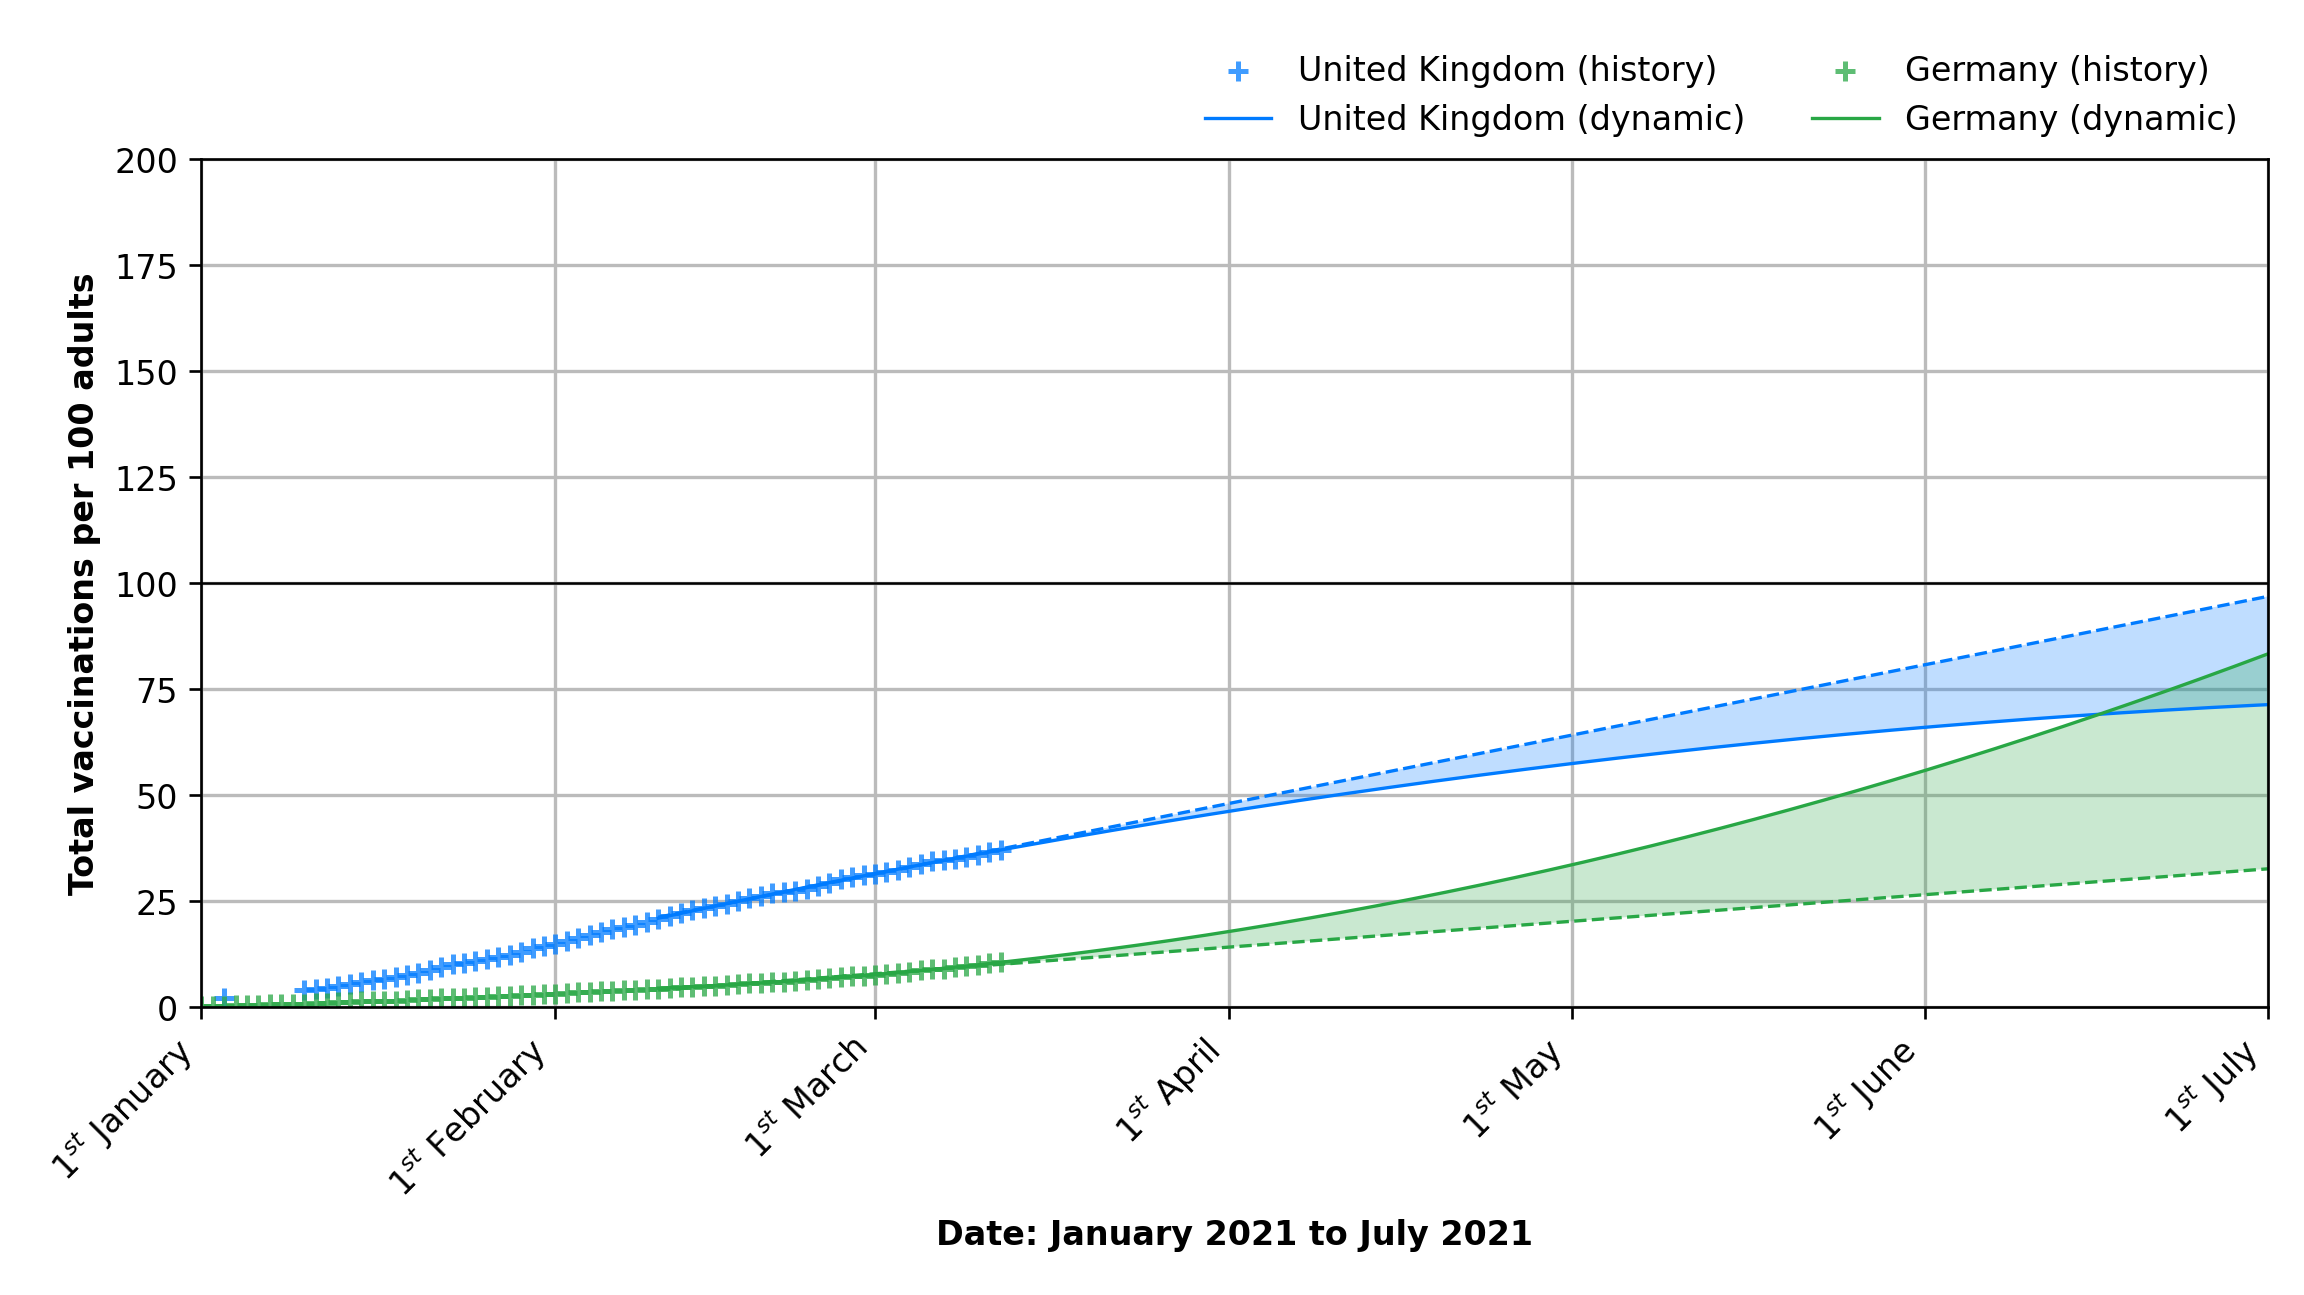
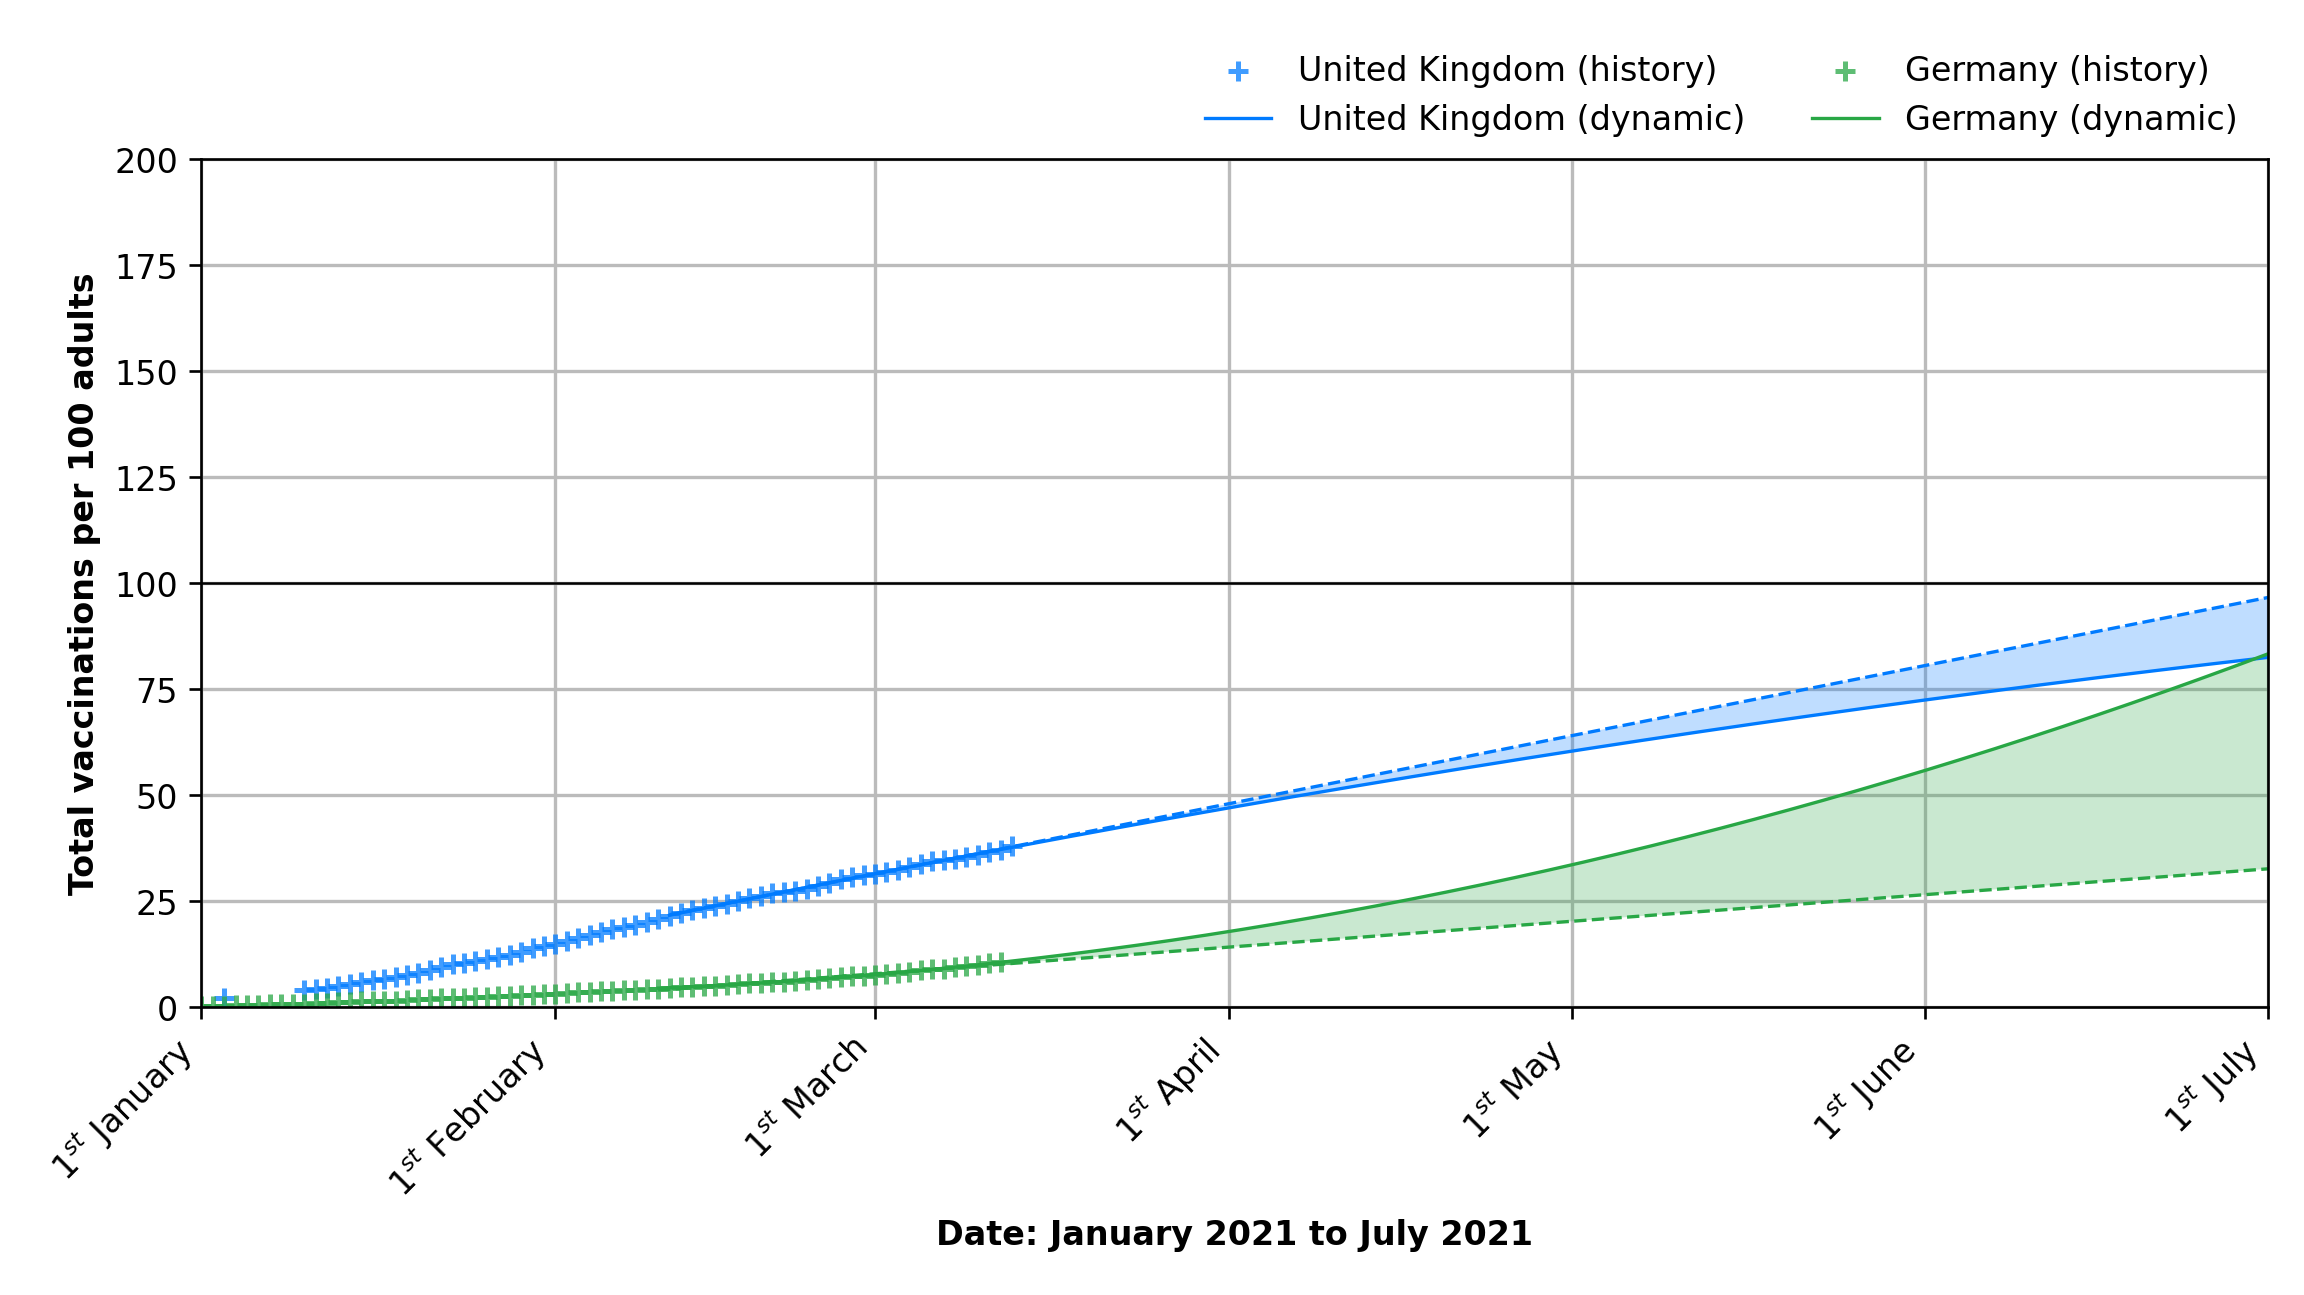
Deploying to gh-pages from @ lambdapioneer/vactrend@1b8b436be16664886d7738f8712cdc14d83be6f4 🚀

Changed region(s): [[0.5625, 0.4633, 1.0, 0.6178], [0.4688, 0.6178, 0.5625, 0.6486]]

diff --git a/index.html b/index.html
@@ -37,13 +37,13 @@
                 <div class="card">
                     <div class="card-header">🇬🇧 United Kingdom</div>
                     <div class="card-body">
-                        <h3 class="font-weight-bold" style="color: #007bff">37.15 <small>(+0.68/d)</small></h3>
+                        <h3 class="font-weight-bold" style="color: #007bff">37.98 <small>(+0.83/d)</small></h3>
                         <p class="mt-n2">Vaccinations per 100 adults</p>
-                        <h3 class=" font-weight-bold">07 July 2021</h3>
+                        <h3 class=" font-weight-bold">08 July 2021</h3>
                         <p class="mt-n2">Earliest day: 100 vacc. per 100 adults</p>
-                        <h3 class=" font-weight-bold">10 January 2022</h3>
+                        <h3 class=" font-weight-bold">11 January 2022</h3>
                         <p class="mt-n2">Earliest day: 200 vacc. per 100 adults</p>
-                        <p class="card-text"><small class="text-muted">Last data from 12 March 2021.</small></p>
+                        <p class="card-text"><small class="text-muted">Last data from 13 March 2021.</small></p>
                     </div>
                 </div>
             </div>
